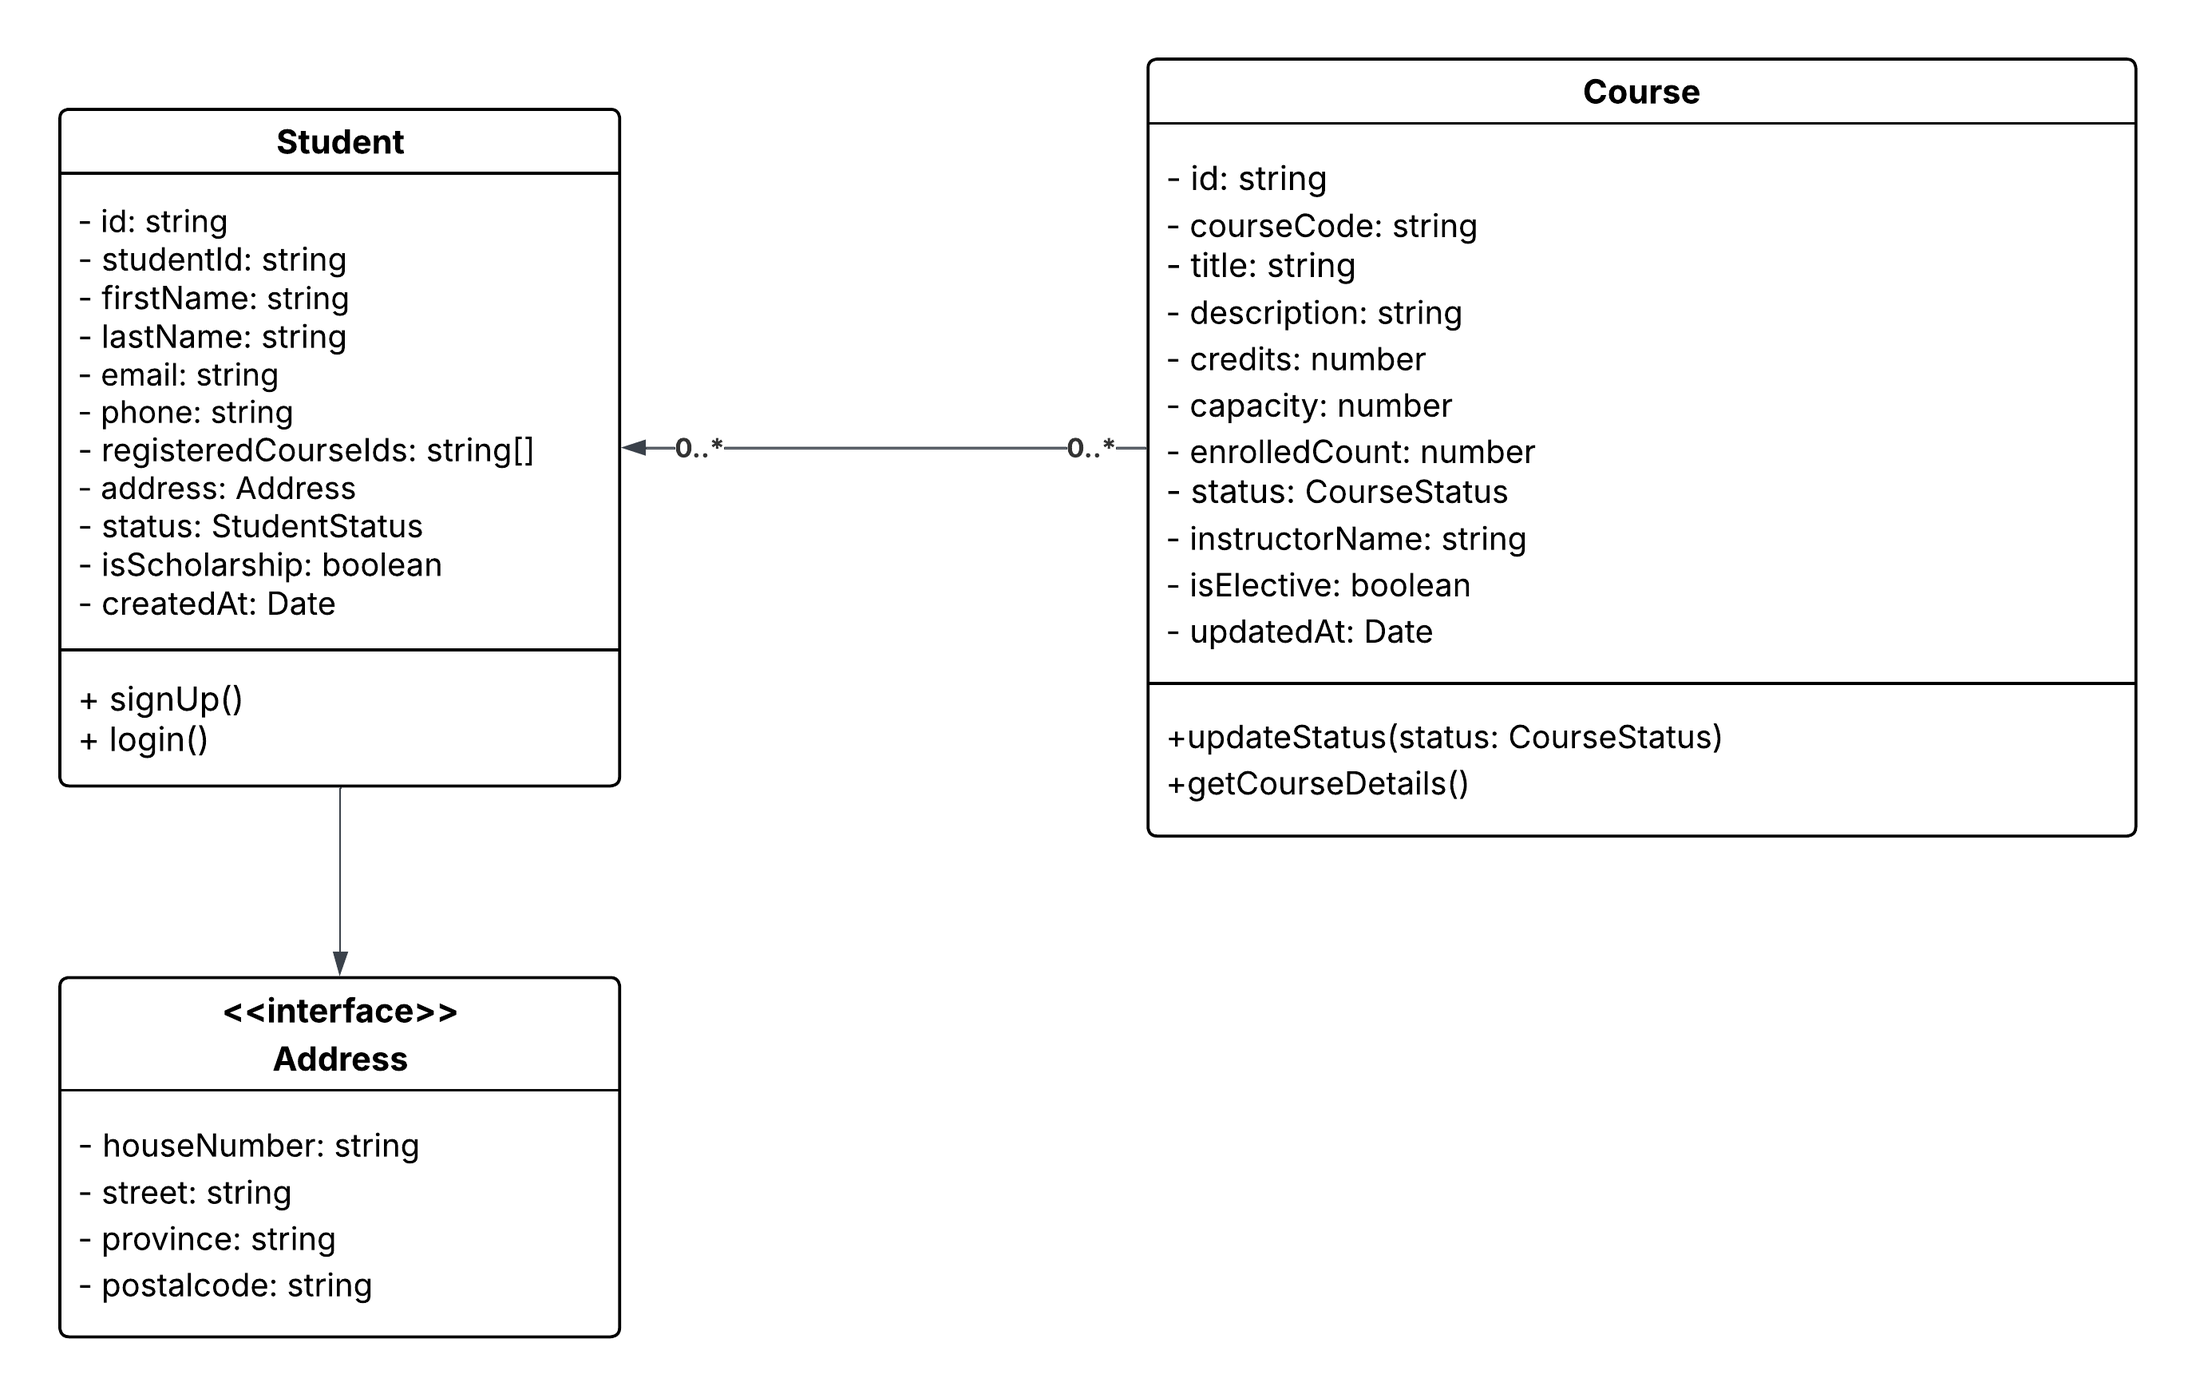
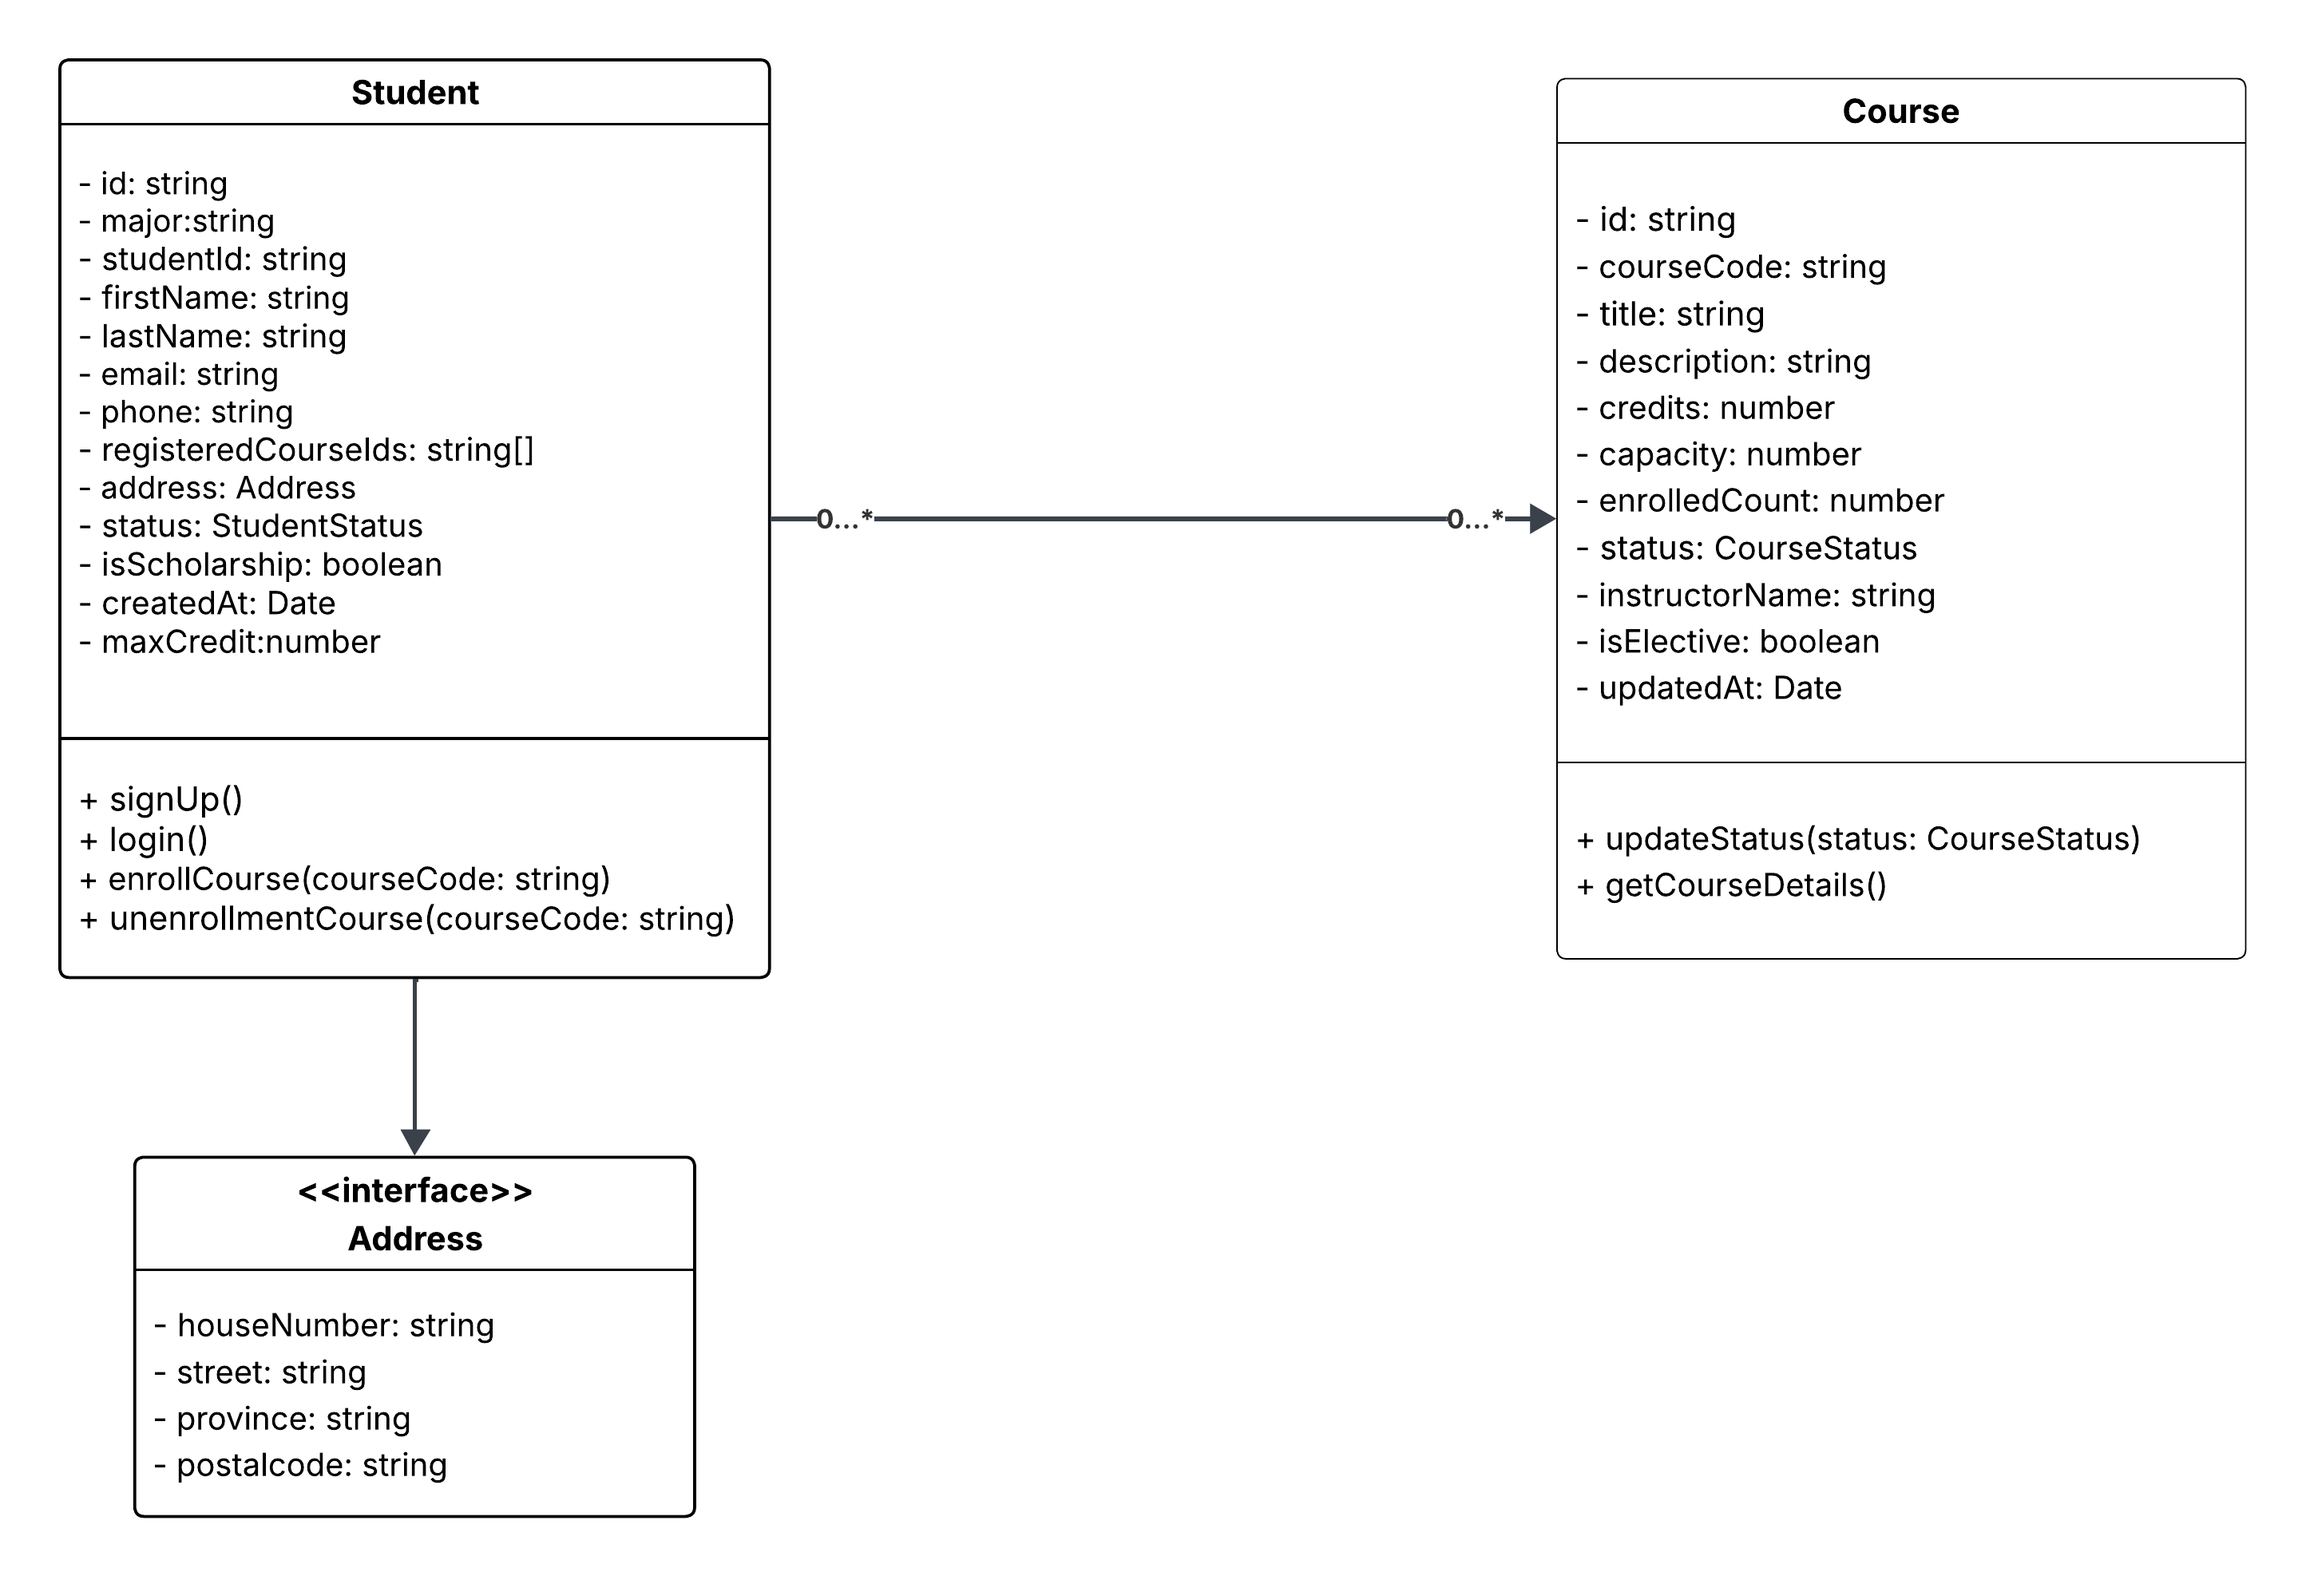
student.service, UML_Update, data

diff --git a/src/modules/students/students.service.ts b/src/modules/students/students.service.ts
@@ -1,0 +1,41 @@
+import { Injectable } from '@nestjs/common';
+import { StudentStatus } from './enums/student-status.enum';
+import { CreateStudentDto } from './dto/create-student.dto';
+import { AddressDto } from './dto/address.dto';
+import * as fs from 'fs/promises';
+import * as path from 'path';
+
+export interface Student {
+  id: string;
+  studentId: string;
+  firstName: string;
+  lastName: string;
+  email: string;
+  phone: string;
+  registeredCourseIds: string[];
+  address: AddressDto;
+  status: StudentStatus;
+  isScholarship: boolean;
+  maxCredit: number;
+  createdAt: Date;
+}
+
+@Injectable()
+export class StudentsService {
+  private readonly filepath = path.resolve(process.cwd(), 'data/students.json');
+
+  async onModuleInit() {
+    const dir = path.dirname(this.filepath);
+    try {
+      await fs.access(dir);
+    } catch {
+      await fs.mkdir(dir, { recursive: true });
+    }
+
+    try {
+      await fs.access(this.filepath);
+    } catch {
+      await fs.writeFile(this.filepath, JSON.stringify([]), 'utf-8')
+    }
+  }
+}

diff --git a/src/modules/courses/dto/create-course.dto.ts b/src/modules/courses/dto/create-course.dto.ts
@@ -1,7 +1,6 @@
 import {
     IsString,
     IsNumber,
-    IsNumberString,
     IsNotEmpty,
     IsBoolean,
     IsEnum
@@ -35,6 +34,10 @@ export class CreateCouseDto {
     @IsNumber()
     @IsNotEmpty()
     capacity!: number;
+
+    @ApiProperty({ example: '25' })
+    @IsNumber()
+    enrolledCount!: number;
 
     @ApiProperty({ enum: CourseStatus, example: CourseStatus.OPEN })
     @IsEnum({CourseStatus})

diff --git a/src/app.module.ts b/src/app.module.ts
@@ -1,10 +1,10 @@
 import { Module } from '@nestjs/common';
 import { AppController } from './app.controller';
-import { AppService } from './app.service';
+import { StudentsService } from '../src/modules/students/students.service';
 
 @Module({
   imports: [],
   controllers: [AppController],
-  providers: [AppService],
+  providers: [StudentsService],
 })
 export class AppModule {}
